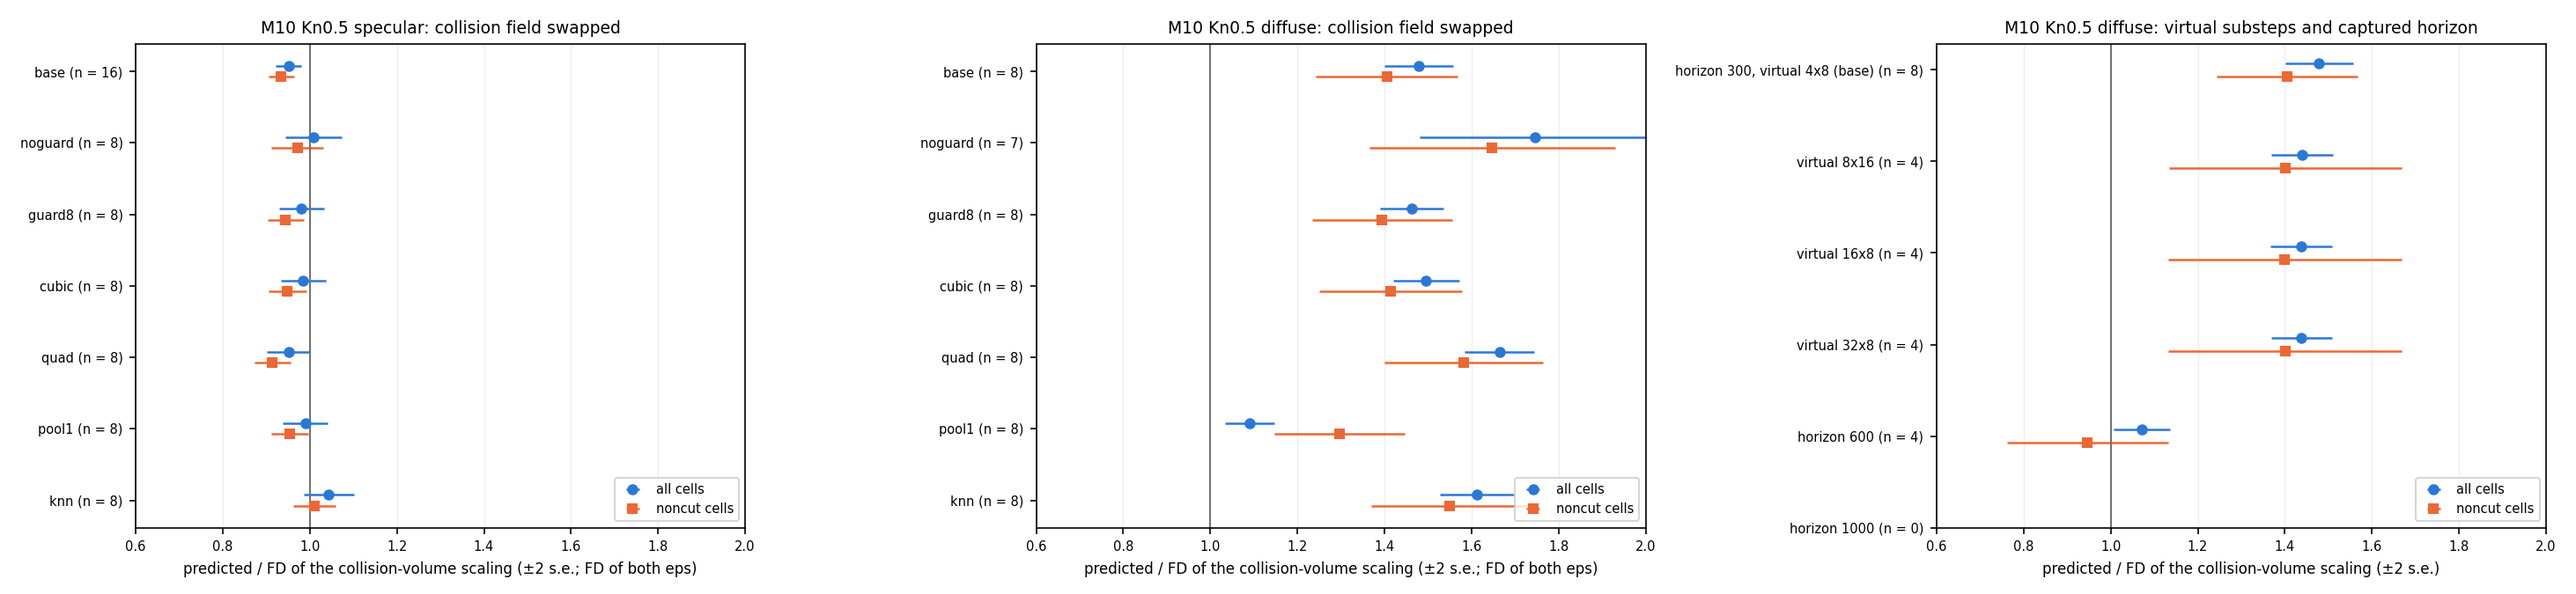
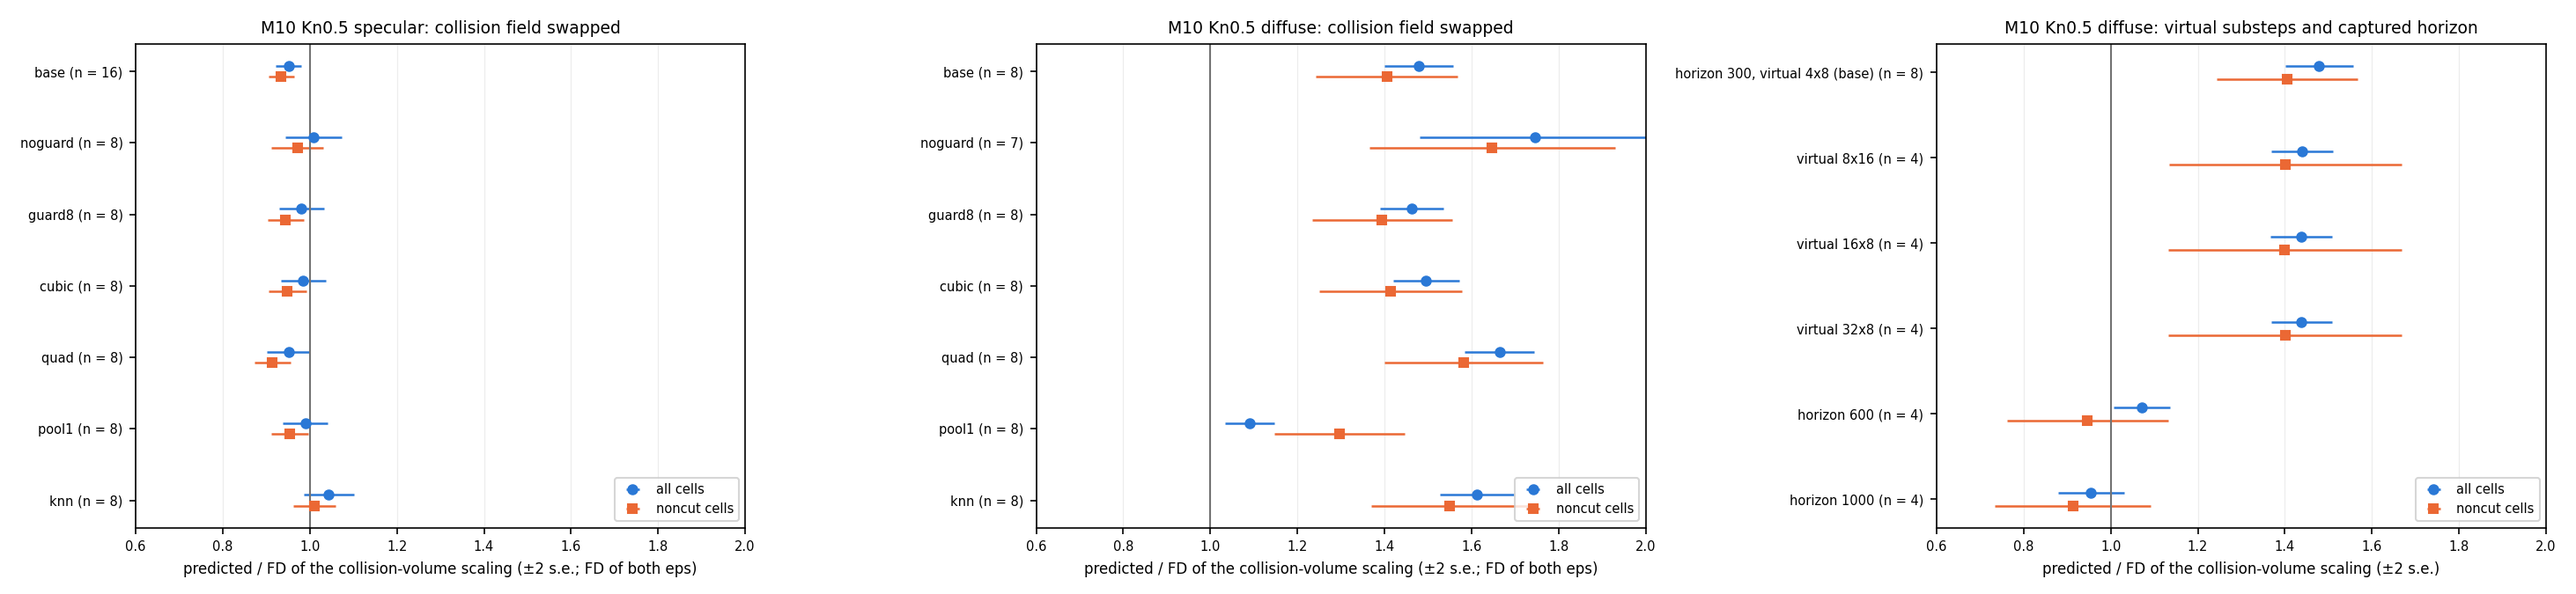
more fitgate checks

diff --git a/scratch/fitgate/variant_gate.py b/scratch/fitgate/variant_gate.py
@@ -115,6 +115,14 @@ NEW_GATES = {
     "c10_spec_xsplit": ({**CIRCLE_M10, **COMMON}, "radius", [0.1, 0.05]),
     "c10_spec_kn2_xsplit": ({**CIRCLE_M10, **COMMON, "knudsen": 2.0, "slots": 400_000,
                              "a_max": 96}, "radius", [0.1, 0.05]),
+    # 2026-11-02: at Kn 0.5 the collision part of pathwise_x is +0.120 against an excess of
+    # ~+0.057.  Kn 10 (the control: the collision part should vanish, the perpendicular and
+    # timing parts read right) and the 1000-step horizon (which part grows with the horizon?),
+    # the same forwards and FDs as c10_spec_kn10 / c10_spec
+    "c10_spec_kn10_xsplit": ({**CIRCLE_M10, **COMMON, "knudsen": 10.0, "slots": 400_000,
+                              "a_max": 32}, "radius", [0.1, 0.05]),
+    "c10_spec_h1000_xsplit": ({**CIRCLE_M10, **COMMON, "warmup": 2100, "steps": 1000},
+                              "radius", [0.1, 0.05]),
     # collision cells half the size (2026-11-01: the user's hypothesis -- the M 10 bias lives
     # in the compressed shock layer, whose cells are too coarse for the dynamics there; the
     # horizon gave -3 %, the in-situ collision-volume gate -6 %): grid_scale 2 at the same
@@ -174,6 +182,8 @@ FD_FROM = {
     "c10_spec_h600": "c10_spec",
     "c10_spec_xsplit": "c10_spec",
     "c10_spec_kn2_xsplit": "c10_spec_kn2",
+    "c10_spec_kn10_xsplit": "c10_spec_kn10",
+    "c10_spec_h1000_xsplit": "c10_spec",
     "c10_spec_gz001": "c10_spec",
     "c10_spec_two": "c10_spec",
     "c10_spec_v816": "c10_spec",

diff --git a/examples/mesh/cluster/study.py b/examples/mesh/cluster/study.py
@@ -1170,8 +1170,13 @@ def _fitgate_jobs(gpus_per_node: int) -> dict[str, str]:
     # the specular bias lives in the one variant-dependent term), Kn 0.5 and Kn 2, seeds 0-7,
     # FD reused: GPU_KIND=rtx ONLY='^c10xs_', GPU_KIND=rtx_48 ONLY='^c10xs2_'
     split = " --variants " + " ".join(FITGATE_CANDIDATES) + " --split-x"
-    jobs |= _fitgate_blocks("c10_spec_xsplit", "c10xs", 8, ("base",), split)
-    jobs |= _fitgate_blocks("c10_spec_kn2_xsplit", "c10xs2", 8, ("base",), split)
+    # and its controls: Kn 10 (the collision part should vanish) and 1000 captured steps
+    # (which part carries the horizon's -3 %): GPU_KIND=rtx ONLY='^c10xs10_',
+    # GPU_KIND=h200_71 ONLY='^c10xsh_'
+    for gate, prefix in (("c10_spec_xsplit", "c10xs"), ("c10_spec_kn2_xsplit", "c10xs2"),
+                         ("c10_spec_kn10_xsplit", "c10xs10"),
+                         ("c10_spec_h1000_xsplit", "c10xsh")):  # fmt: skip
+        jobs |= _fitgate_blocks(gate, prefix, 8, ("base",), split)
     # the diffuse one OOMed on the 71 GB slice (2026-11-01: ~66 GB in use, then the backward's
     # [1000, N, 2] reward columns, 3.1 GB) -> GPU_KIND=rtx_full ONLY='^c10h_diff', two seeds a
     # job (the diffuse backward is the slow one)

diff --git a/examples/mesh/figures/fitgate/summary.md b/examples/mesh/figures/fitgate/summary.md
@@ -26,7 +26,8 @@ Ratio = seed-mean adjoint / seed-mean FD at step h, ±2 s.e. of the adjoint mean
 | c10_diff_g2n | 16 | ±2.7 % | 1.051 ± 0.070 |
 | c10_diff_mem | 8 | ±3.3 % | 1.029 ± 0.139 |
 | c10_diff_h600 | 8 | ±3.3 % | 1.029 ± 0.139 |
-| c10_diff_kn2 | 7 | ±4.6 % | 1.011 ± 0.071 |
+| c10_diff_kn2 | 16 | ±2.7 % | 0.994 ± 0.053 |
+| c10_diff_kn10 | 6 | ±2.7 % | 1.021 ± 0.048 |
 | af_drag_radius | 32 | ±8.8 % | 1.133 ± 0.160 |
 | af_drag_mode2 | 32 | ±10.1 % | 0.979 ± 0.174 |
 
@@ -494,24 +495,47 @@ Ratio = seed-mean adjoint / seed-mean FD at step h, ±2 s.e. of the adjoint mean
 
 | variant | base ratio | t | spread |
 |---|---|---|---|
-| one | 0.912 ± 0.107 | -1.6 | 0.141 |
-| one_pool | 1.026 ± 0.038 | +0.9 | 0.050 |
-| along | 0.903 ± 0.071 | -3.0 | 0.093 |
-| along_pool | 0.993 ± 0.046 | -0.2 | 0.061 |
-| one_pool_plane | 1.030 ± 0.038 | +1.0 | 0.050 |
-| along_pool_plane | 0.996 ± 0.046 | -0.1 | 0.061 |
-| cell_plane | 0.952 ± 0.053 | -1.5 | 0.069 |
-| cell_along_plane | 0.981 ± 0.048 | -0.9 | 0.064 |
-| cell_pool_plane | 1.103 ± 0.039 | +3.7 | 0.051 |
-| cell_along_pool_plane | 1.077 ± 0.047 | +2.5 | 0.062 |
-| cellq_plane | 0.954 ± 0.063 | -1.1 | 0.083 |
-| cellq_along_plane | 0.987 ± 0.046 | -0.6 | 0.061 |
-| cellq_pool_plane | 1.108 ± 0.039 | +3.8 | 0.051 |
-| cellq_along_pool_plane | 1.082 ± 0.047 | +2.7 | 0.062 |
-| cellxv_plane | 0.889 ± 0.079 | -2.3 | 0.105 |
-| cellxv_along_plane | 0.963 ± 0.046 | -1.7 | 0.061 |
-| cellxv_pool_plane | 1.040 ± 0.035 | +1.5 | 0.047 |
-| cellxv_along_pool_plane | 1.027 ± 0.045 | +0.9 | 0.060 |
+| one | 0.885 ± 0.069 | -3.0 | 0.137 |
+| one_pool | 0.930 ± 0.057 | -2.0 | 0.114 |
+| along | 0.897 ± 0.051 | -3.6 | 0.102 |
+| along_pool | 0.909 ± 0.055 | -2.7 | 0.110 |
+| one_pool_plane | 0.934 ± 0.057 | -1.9 | 0.114 |
+| along_pool_plane | 0.913 ± 0.055 | -2.6 | 0.110 |
+| cell_plane | 0.865 ± 0.067 | -3.5 | 0.133 |
+| cell_along_plane | 0.904 ± 0.052 | -3.1 | 0.103 |
+| cell_pool_plane | 1.003 ± 0.060 | +0.1 | 0.121 |
+| cell_along_pool_plane | 0.988 ± 0.058 | -0.3 | 0.117 |
+| cellq_plane | 0.867 ± 0.071 | -3.2 | 0.143 |
+| cellq_along_plane | 0.909 ± 0.053 | -2.9 | 0.106 |
+| cellq_pool_plane | 1.007 ± 0.061 | +0.2 | 0.121 |
+| cellq_along_pool_plane | 0.992 ± 0.059 | -0.2 | 0.117 |
+| cellxv_plane | 0.846 ± 0.075 | -3.6 | 0.150 |
+| cellxv_along_plane | 0.883 ± 0.056 | -3.5 | 0.112 |
+| cellxv_pool_plane | 0.941 ± 0.058 | -1.7 | 0.116 |
+| cellxv_along_pool_plane | 0.940 ± 0.056 | -1.8 | 0.113 |
+
+## c10_diff_kn10 (circle M10 Kn10 diffuse)
+
+| variant | base ratio | t | spread |
+|---|---|---|---|
+| one | 0.864 ± 0.059 | -5.8 | 0.072 |
+| one_pool | 0.956 ± 0.022 | -4.4 | 0.027 |
+| along | 0.875 ± 0.047 | -6.6 | 0.058 |
+| along_pool | 0.928 ± 0.027 | -5.8 | 0.033 |
+| one_pool_plane | 0.959 ± 0.023 | -4.2 | 0.028 |
+| along_pool_plane | 0.931 ± 0.027 | -5.6 | 0.033 |
+| cell_plane | 0.890 ± 0.044 | -6.8 | 0.054 |
+| cell_along_plane | 0.926 ± 0.033 | -7.1 | 0.041 |
+| cell_pool_plane | 1.030 ± 0.022 | +3.3 | 0.028 |
+| cell_along_pool_plane | 1.007 ± 0.026 | +0.6 | 0.032 |
+| cellq_plane | 0.892 ± 0.043 | -7.2 | 0.053 |
+| cellq_along_plane | 0.928 ± 0.034 | -6.8 | 0.042 |
+| cellq_pool_plane | 1.034 ± 0.023 | +3.8 | 0.028 |
+| cellq_along_pool_plane | 1.011 ± 0.026 | +1.0 | 0.032 |
+| cellxv_plane | 0.898 ± 0.036 | -3.7 | 0.044 |
+| cellxv_along_plane | 0.914 ± 0.028 | -5.1 | 0.035 |
+| cellxv_pool_plane | 0.996 ± 0.023 | -0.4 | 0.028 |
+| cellxv_along_pool_plane | 0.973 ± 0.027 | -2.4 | 0.033 |
 
 ## af_drag_radius (airfoil Kn0.39 diffuse, radius)
 
@@ -563,24 +587,24 @@ Ratio = seed-mean adjoint / seed-mean FD at step h, ±2 s.e. of the adjoint mean
 
 | variant | basis | gates | RMS(ratio - 1) | max abs(ratio - 1) | RMS t | median spread | airfoil spread (r, m2) |
 |---|---|---|---|---|---|---|---|
-| one | base | 23 | nan | nan | nan | nan | 7.11 / 5.26 |
-| one_pool | base | 23 | nan | nan | nan | nan | 1.65 / 1.67 |
-| along | base | 23 | nan | nan | nan | nan | 2.36 / 1.43 |
-| along_pool | base | 23 | nan | nan | nan | nan | 1.75 / 1.40 |
-| one_pool_plane | base | 23 | 0.138 | 0.431 | 4.9 | 0.042 | 1.64 / 1.67 |
-| along_pool_plane | base | 23 | 0.122 | 0.394 | 3.8 | 0.039 | 1.75 / 1.40 |
-| cell_plane | base | 23 | nan | nan | nan | nan | 1.73 / 1.55 |
-| cell_along_plane | base | 23 | nan | nan | nan | nan | 0.77 / 0.48 |
-| cell_pool_plane | base | 23 | 0.149 | 0.402 | 6.5 | 0.048 | 0.63 / 0.63 |
-| cell_along_pool_plane | base | 23 | 0.109 | 0.281 | 4.2 | 0.040 | 0.63 / 0.43 |
-| cellq_plane | base | 23 | nan | nan | nan | nan | 1.73 / 1.55 |
-| cellq_along_plane | base | 23 | nan | nan | nan | nan | 0.77 / 0.48 |
-| cellq_pool_plane | base | 23 | nan | nan | nan | nan | 0.65 / 0.65 |
-| cellq_along_pool_plane | base | 23 | nan | nan | nan | nan | 0.61 / 0.43 |
-| cellxv_plane | base | 23 | nan | nan | nan | nan | 1.56 / 1.36 |
-| cellxv_along_plane | base | 23 | nan | nan | nan | nan | 0.77 / 0.46 |
-| cellxv_pool_plane | base | 23 | nan | nan | nan | nan | 0.72 / 0.77 |
-| cellxv_along_pool_plane | base | 23 | 0.114 | 0.244 | 3.5 | 0.040 | 0.63 / 0.45 |
+| one | base | 24 | nan | nan | nan | nan | 7.11 / 5.26 |
+| one_pool | base | 24 | nan | nan | nan | nan | 1.65 / 1.67 |
+| along | base | 24 | nan | nan | nan | nan | 2.36 / 1.43 |
+| along_pool | base | 24 | nan | nan | nan | nan | 1.75 / 1.40 |
+| one_pool_plane | base | 24 | 0.136 | 0.431 | 4.9 | 0.035 | 1.64 / 1.67 |
+| along_pool_plane | base | 24 | 0.121 | 0.394 | 3.9 | 0.036 | 1.75 / 1.40 |
+| cell_plane | base | 24 | nan | nan | nan | nan | 1.73 / 1.55 |
+| cell_along_plane | base | 24 | nan | nan | nan | nan | 0.77 / 0.48 |
+| cell_pool_plane | base | 24 | 0.144 | 0.402 | 6.4 | 0.046 | 0.63 / 0.63 |
+| cell_along_pool_plane | base | 24 | 0.106 | 0.281 | 4.1 | 0.036 | 0.63 / 0.43 |
+| cellq_plane | base | 24 | nan | nan | nan | nan | 1.73 / 1.55 |
+| cellq_along_plane | base | 24 | nan | nan | nan | nan | 0.77 / 0.48 |
+| cellq_pool_plane | base | 24 | nan | nan | nan | nan | 0.65 / 0.65 |
+| cellq_along_pool_plane | base | 24 | nan | nan | nan | nan | 0.61 / 0.43 |
+| cellxv_plane | base | 24 | nan | nan | nan | nan | 1.56 / 1.36 |
+| cellxv_along_plane | base | 24 | nan | nan | nan | nan | 0.77 / 0.46 |
+| cellxv_pool_plane | base | 24 | nan | nan | nan | nan | 0.72 / 0.77 |
+| cellxv_along_pool_plane | base | 24 | 0.112 | 0.244 | 3.4 | 0.036 | 0.63 / 0.45 |
 | one | pool1 | 5 | 0.175 | 0.323 | 3.6 | 0.367 | 1.28 / 0.87 |
 | one_pool | pool1 | 5 | 0.102 | 0.145 | 5.7 | 0.066 | 0.38 / 0.29 |
 | along | pool1 | 5 | 0.119 | 0.199 | 4.5 | 0.168 | 0.63 / 0.38 |
@@ -624,6 +648,7 @@ Ratio = seed-mean adjoint / seed-mean FD at step h, ±2 s.e. of the adjoint mean
 | c10_diff_g2n | -0.241 | +0.000 | +0.101 | -0.024 | -0.002 | +0.873 | +0.371 | +0.323 |
 | c10_diff_mem | -0.247 | +0.000 | +0.099 | -0.024 | -0.021 | +0.914 | +0.354 | -0.086 |
 | c10_diff_h600 | -0.223 | +0.000 | +0.099 | -0.039 | -0.021 | +0.914 | +0.373 | -0.171 |
-| c10_diff_kn2 | -0.085 | +0.000 | +0.086 | -0.011 | +0.011 | +1.022 | +0.089 | -0.009 |
+| c10_diff_kn2 | -0.083 | +0.000 | +0.084 | -0.012 | +0.004 | +0.930 | +0.088 | -0.008 |
+| c10_diff_kn10 | -0.016 | +0.000 | +0.074 | -0.003 | +0.015 | +0.940 | +0.004 | +0.015 |
 | af_drag_radius | -0.523 | +0.000 | +0.290 | -0.036 | -0.002 | +0.853 | +0.144 | +0.347 |
 | af_drag_mode2 | +0.404 | -0.000 | +0.556 | -0.136 | -0.019 | +0.595 | -0.047 | -0.201 |
